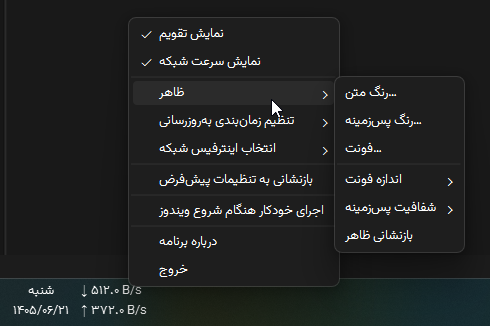
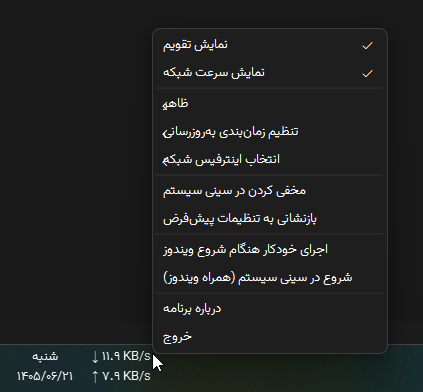
Document tray startup option and refresh screenshot for v1.1.3.
Add start-in-tray setting, fix tray menu RTL labels, update README, and ship the refreshed build by replacing the existing release tag.

diff --git a/main.py b/main.py
@@ -36,6 +36,8 @@ DEFAULT_BG_COLOR = "#141414"
 DEFAULT_FONT_SIZE = 10
 DEFAULT_OPACITY = 0.6
 DEFAULT_NETWORK_INTERVAL = 1000
+TRAY_HIDE_LABEL = "مخفی کردن در سینی سیستم"
+TRAY_START_HIDDEN_LABEL = "شروع در سینی سیستم (همراه ویندوز)"
 
 
 def get_app_base_path() -> str:
@@ -135,6 +137,7 @@ class MainWidget(QWidget):
         self._restore_pos = None
         self._is_quitting = False
         self.tray_icon = None
+        self.start_minimized_to_tray = False
 
         # Correctly resolve paths for both bundled exe and normal script
         base_path = get_app_base_path()
@@ -199,11 +202,12 @@ class MainWidget(QWidget):
         self._update_tray_tooltip()
 
         tray_menu = QMenu()
+        tray_menu.setLayoutDirection(Qt.LayoutDirection.RightToLeft)
         show_action = QAction("نمایش ویجت", self)
         show_action.triggered.connect(self.restore_from_tray)
         tray_menu.addAction(show_action)
 
-        hide_action = QAction("مخفی کردن در System Tray", self)
+        hide_action = QAction(TRAY_HIDE_LABEL, self)
         hide_action.triggered.connect(self.minimize_to_tray)
         tray_menu.addAction(hide_action)
 
@@ -234,10 +238,11 @@ class MainWidget(QWidget):
     def minimize_to_tray(self):
         """Hides the widget and keeps the app running in the system tray."""
         if not self.tray_icon:
-            self._show_error_message("System Tray در این سیستم در دسترس نیست.")
+            self._show_error_message("سینی سیستم در این سیستم در دسترس نیست.")
             return
-        self._restore_pos = QPoint(self.pos())
-        self.save_config()
+        if self.isVisible():
+            self._restore_pos = QPoint(self.pos())
+            self.save_config()
         self.hide()
         if not self.tray_icon.isVisible():
             self.tray_icon.show()
@@ -324,6 +329,7 @@ class MainWidget(QWidget):
     def contextMenuEvent(self, event):
         """Creates and displays the right-click context menu."""
         context_menu = QMenu(self)
+        context_menu.setLayoutDirection(Qt.LayoutDirection.RightToLeft)
         self.menu_is_open = True
 
         show_calendar_action = QAction("نمایش تقویم", self, checkable=True)
@@ -397,7 +403,7 @@ class MainWidget(QWidget):
 
         context_menu.addSeparator()
 
-        minimize_tray_action = QAction("مخفی کردن در System Tray", self)
+        minimize_tray_action = QAction(TRAY_HIDE_LABEL, self)
         minimize_tray_action.triggered.connect(self.minimize_to_tray)
         context_menu.addAction(minimize_tray_action)
 
@@ -412,6 +418,11 @@ class MainWidget(QWidget):
             startup_action.setChecked(self.is_currently_in_startup)
             startup_action.toggled.connect(self._toggle_startup)
             context_menu.addAction(startup_action)
+
+            start_in_tray_action = QAction(TRAY_START_HIDDEN_LABEL, self, checkable=True)
+            start_in_tray_action.setChecked(self.start_minimized_to_tray)
+            start_in_tray_action.toggled.connect(self._toggle_start_minimized_to_tray)
+            context_menu.addAction(start_in_tray_action)
             context_menu.addSeparator()
 
         about_action = QAction("درباره برنامه", self)
@@ -513,6 +524,7 @@ class MainWidget(QWidget):
 
         screen_geometry = QApplication.primaryScreen().geometry()
         self.move(screen_geometry.left() + 5, screen_geometry.bottom() - self.height() - 5)
+        self.start_minimized_to_tray = False
         self.save_config()
 
     def _get_startup_shortcut_path(self):
@@ -526,6 +538,11 @@ class MainWidget(QWidget):
         """Checks if the application is configured to run at startup."""
         path = self._get_startup_shortcut_path()
         return os.path.exists(path) if path else False
+
+    def _toggle_start_minimized_to_tray(self, checked: bool):
+        """Persists whether the app should launch hidden in the system tray."""
+        self.start_minimized_to_tray = checked
+        self.save_config()
 
     def _toggle_startup(self, checked: bool):
         if not IS_WINDOWS:
@@ -597,6 +614,7 @@ class MainWidget(QWidget):
             "font_name": self.font_name,
             "text_color": self.text_color,
             "bg_color": self.bg_color,
+            "start_minimized_to_tray": self.start_minimized_to_tray,
         }
         path = get_config_path(for_write=True)
         try:
@@ -647,6 +665,9 @@ class MainWidget(QWidget):
             self.bg_color = config.get("bg_color", DEFAULT_BG_COLOR) or DEFAULT_BG_COLOR
             if config.get("font_name"):
                 self.font_name = config["font_name"]
+            self.start_minimized_to_tray = self._as_bool(
+                config.get("start_minimized_to_tray"), False
+            )
             self._pending_config = config
         except Exception as e:
             print(f"Error applying config: {e}")
@@ -786,7 +807,10 @@ def main():
         print(f"An unexpected error occurred while setting the font: {e}")
 
     widget = MainWidget(font_name=font_name)
-    widget.show()
+    if widget.start_minimized_to_tray and widget.tray_icon:
+        widget.minimize_to_tray()
+    else:
+        widget.show()
 
     try:
         sys.exit(app.exec())

diff --git a/README.md b/README.md
@@ -26,21 +26,29 @@
     <li><strong>سرعت شبکه:</strong> نمایش زنده سرعت آپلود (Up) و دانلود (Down) شبکه.</li>
     <li><strong>همیشه روی همه پنجرهها (Always on Top):</strong> ویجت همیشه روی سایر پنجرهها باقی میماند تا در دسترس باشد.</li>
     <li><strong>قابلیت جابجایی (Draggable):</strong> به راحتی ویجت را با ماوس گرفته و در هر جای صفحه قرار دهید. موقعیت آن به صورت خودکار ذخیره میشود.</li>
-    <li><strong>System Tray:</strong> امکان مخفی کردن ویجت در System Tray؛ با نگه داشتن موس روی آیکون، تاریخ شمسی بهصورت Tooltip نمایش داده میشود و با دبلکلیک ویجت به مکان قبلی برمیگردد.</li>
+    <li><strong>سینی سیستم (System Tray):</strong>
+        <ul>
+            <li>مخفی کردن ویجت در سینی سیستم از منوی راستکلیک.</li>
+            <li>نمایش تاریخ شمسی بهصورت Tooltip با هاور روی آیکون.</li>
+            <li>بازگردانی ویجت به مکان قبلی با دبلکلیک روی آیکون.</li>
+            <li>گزینه «شروع در سینی سیستم (همراه ویندوز)» برای اجرای مخفی هنگام استارت ویندوز.</li>
+        </ul>
+    </li>
     <li><strong>شخصیسازی ظاهر:</strong> تغییر رنگ متن، رنگ پسزمینه، فونت، اندازه فونت و شفافیت پسزمینه از منوی راستکلیک.</li>
     <li><strong>تنظیمات کامل:</strong> با راستکلیک روی ویجت به منوی تنظیمات دسترسی پیدا کنید:
         <ul>
             <li>نمایش یا مخفی کردن ویجت تقویم و شبکه.</li>
-            <li>مخفی کردن در System Tray و بازگردانی با دبلکلیک روی آیکون.</li>
+            <li>مخفی کردن در سینی سیستم و بازگردانی با دبلکلیک روی آیکون.</li>
             <li>تغییر رنگ متن و پسزمینه و انتخاب فونت.</li>
             <li>تغییر اندازه فونت و شفافیت (Opacity) پسزمینه.</li>
             <li>تغییر فاصله زمانی بهروزرسانی سرعت شبکه.</li>
             <li>انتخاب اینترفیس شبکه (وایفای، اترنت و...) با ذخیرهسازی دائمی.</li>
             <li>بازنشانی ظاهر یا بازنشانی کامل به تنظیمات پیشفرض.</li>
+            <li>اجرای خودکار هنگام شروع ویندوز و شروع مخفی در سینی سیستم.</li>
         </ul>
     </li>
-    <li><strong>اجرای خودکار:</strong> قابلیت افزودن به استارتاپ ویندوز تا با هر بار روشن شدن سیستم، برنامه به صورت خودکار اجرا شود.</li>
-    <li><strong>ذخیره تنظیمات:</strong> تمام تنظیمات ظاهری، کارت شبکه، بازه بهروزرسانی و موقعیت ویجت در فایل <code>config.json</code> کنار برنامه ذخیره میشود و در اجرای بعدی باقی میماند.</li>
+    <li><strong>اجرای خودکار:</strong> قابلیت افزودن به استارتاپ ویندوز؛ در صورت تمایل میتوانید برنامه را از همان ابتدا در سینی سیستم باز کنید.</li>
+    <li><strong>ذخیره تنظیمات:</strong> تمام تنظیمات ظاهری، کارت شبکه، بازه بهروزرسانی، وضعیت سینی سیستم و موقعیت ویجت در فایل <code>config.json</code> کنار برنامه ذخیره میشود و در اجرای بعدی باقی میماند.</li>
 </ul>
 
 ### 🚀 نصب و اجرا (Installation)
@@ -48,7 +56,8 @@
 1. به صفحه **Releases** بروید.
 2. آخرین نسخه با پسوند `.zip` را دانلود و از حالت فشرده خارج کنید.
 3. فایل اجرایی را اجرا کنید؛ فایل `config.json` کنار برنامه ساخته میشود.
-4. برای اجرای خودکار هنگام شروع ویندوز، این گزینه را از منوی راستکلیک فعال کنید.
+4. برای اجرای خودکار هنگام شروع ویندوز، گزینه مربوط را از منوی راستکلیک فعال کنید.
+5. اگر میخواهید برنامه همراه ویندوز مستقیم در سینی سیستم باز شود، گزینه «شروع در سینی سیستم (همراه ویندوز)» را هم فعال کنید.
 
 #
 
